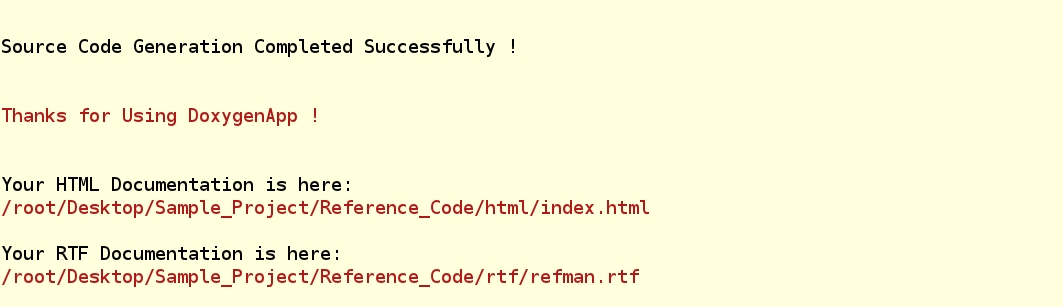
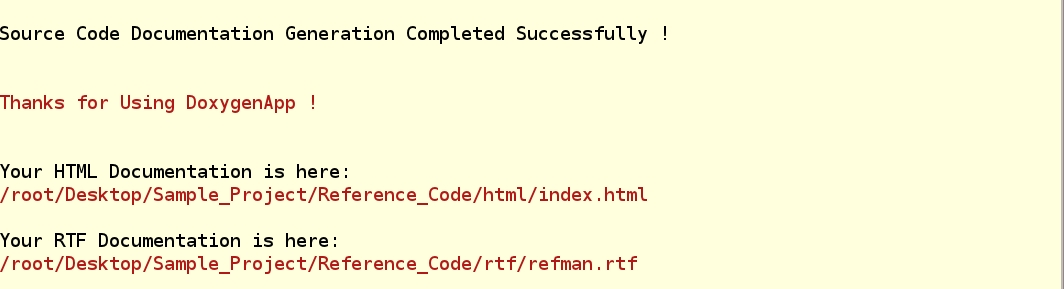
Updated Print Statement

diff --git a/DoxygenApp.c b/DoxygenApp.c
@@ -319,10 +319,10 @@ int main()
 
 	fclose (fptr);
 
-	printf ("\nGenerate Doxygen Documentation\n\n");
+	printf ("\nGenerating Doxygen Documentation\n\n");
 	system ("doxygen 'ConfigFile'"); 
 
-	printf ("\n\nSource Code Generation Completed Successfully !\n\n");
+	printf ("\n\nSource Code Documentation Generation Completed Successfully !\n\n");
 	system ("rm -rf 'ConfigFile'");
 	
 	#ifdef DEBUG_FLAG
